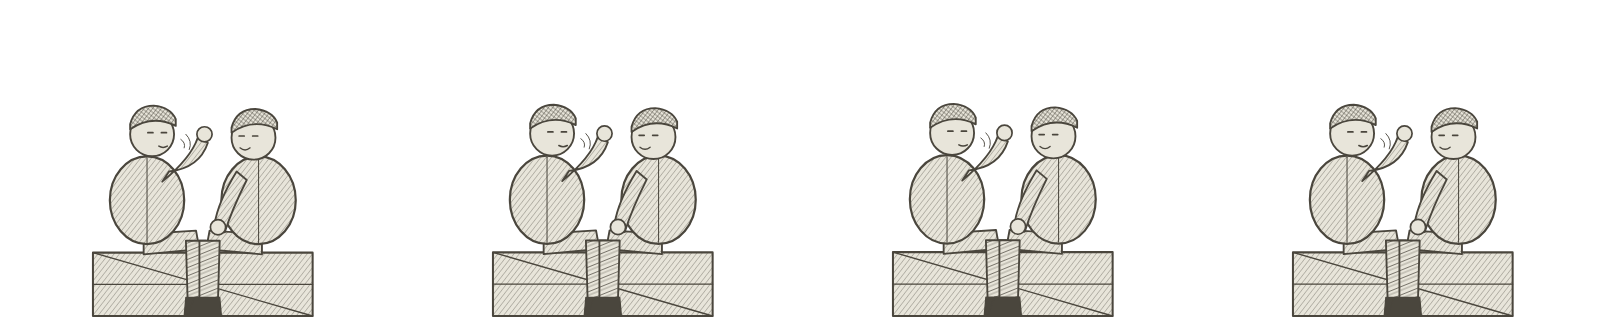
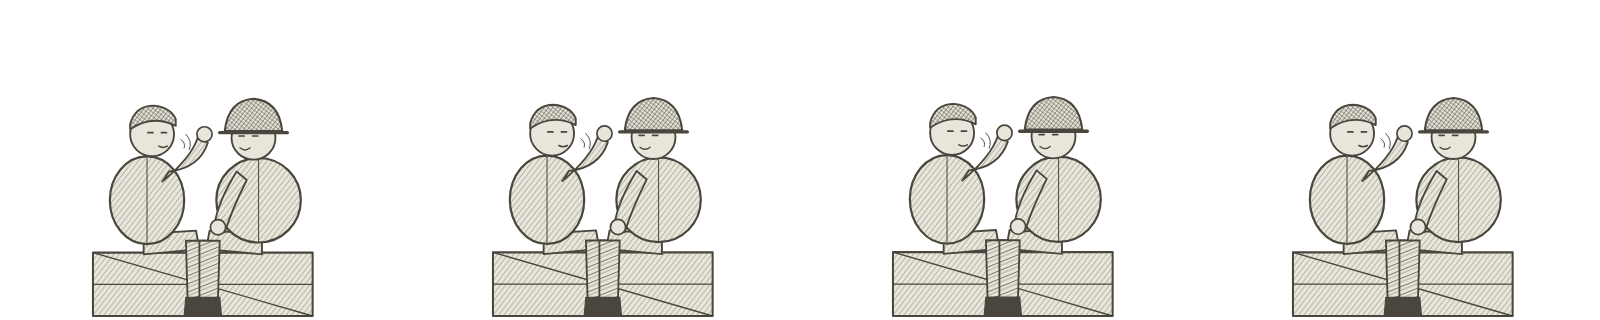
Figurants : carrures et couvre-chefs variés (casque, bandeau), plus de clones
Retour GD sur #132.

Claude-Session: https://claude.ai/code/session_011WbKxBfoJbcyebqrVqkEA5

diff --git a/tools/gen_fx_soldats_e1.py b/tools/gen_fx_soldats_e1.py
@@ -34,7 +34,7 @@ def defs() -> str:
     return "<defs>" + "".join(pats) + "</defs>"
 
 
-def tete(x: float, y: float, f: int, yeux: str = "ouverts", calot: bool = True) -> str:
+def tete(x: float, y: float, f: int, yeux: str = "ouverts", calot: bool = True, couvre: str = "calot") -> str:
     """Tête ronde (r 26) tournée vers f (+1 droite, -1 gauche) ; yeux ouverts, clos ou baissés."""
     out = [f'<circle cx="{x}" cy="{y}" r="26" fill="{PAPIER}" {ST} stroke-width="2.2"/>']
     ex = x + 6 * f
@@ -45,14 +45,20 @@ def tete(x: float, y: float, f: int, yeux: str = "ouverts", calot: bool = True) 
     else:  # baissés, vers les mains
         out.append(f'<path d="M{ex - 10} {y + 2} h5 M{ex + 5} {y + 2} h5" fill="none" {ST} stroke-width="2"/>'
                    f'<path d="M{ex - 11} {y - 4} l6 1 M{ex + 5} {y - 3} l6 -1" fill="none" {ST} stroke-width="1.2"/>')
-    if calot:
+    if calot and couvre == "casque":   # casque rond à bord, un peu de travers
+        out.append(f'<path d="M{x - 34} {y - 8} Q{x - 30} {y - 44} {x} {y - 46} Q{x + 30} {y - 44} {x + 34} {y - 8} Z" fill="url(#hach-2)" {ST} stroke-width="2.4"/>'
+                   f'<path d="M{x - 40} {y - 6} H{x + 40}" {ST} stroke-width="4"/>')
+    elif calot and couvre == "bandeau":   # tête nue, cheveux ras, un pansement autour du front
+        out.append(f'<path d="M{x - 24} {y - 10} Q{x} {y - 40} {x + 24} {y - 10}" fill="url(#hach-1)" {ST} stroke-width="1.6"/>'
+                   f'<path d="M{x - 26} {y - 10} Q{x} {y - 20} {x + 26} {y - 10} L{x + 26} {y - 2} Q{x} {y - 12} {x - 26} {y - 2} Z" fill="{PAPIER}" {ST} stroke-width="2"/>')
+    elif calot:
         out.append(f'<path d="M{x - 26} {y - 12} Q{x - 20} {y - 34} {x + 2} {y - 34} Q{x + 22} {y - 32} {x + 28} {y - 18} '
                    f'L{x + 28} {y - 10} Q{x} {y - 24} {x - 26} {y - 6} Z" fill="url(#hach-2)" {ST} stroke-width="2.2"/>')
     return "".join(out)
 
 
 def assis(x: float, siege: float, f: int, bras: str, tete_y: float = 0, yeux: str = "ouverts",
-          bouche: str = "") -> str:
+          bouche: str = "", carrure: float = 44, couvre: str = "calot") -> str:
     """Soldat assis sur un siège à la hauteur siege (y du dessus), hanche en x, tourné vers f."""
     ty = siege - 140 + tete_y
     genou = x + 62 * f
@@ -62,10 +68,10 @@ def assis(x: float, siege: float, f: int, bras: str, tete_y: float = 0, yeux: st
         f'<path d="M{genou - 12 * f} {siege - 14} L{genou - 10 * f} {SOL - 20} L{genou + 12 * f} {SOL - 20} L{genou + 12 * f} {siege - 14} Z" fill="url(#molletiere)" {ST} stroke-width="2.2"/>',
         f'<path d="M{genou - 12 * f} {SOL - 22} L{genou - 14 * f} {SOL} L{genou + 26 * f} {SOL} L{genou + 18 * f} {SOL - 22} Z" fill="{ENCRE}" {ST} stroke-width="1.6"/>',
         # corps rond, un peu voûté
-        f'<ellipse cx="{x + 4 * f}" cy="{siege - 62}" rx="44" ry="52" fill="url(#hach-1)" {ST} stroke-width="2.6"/>',
+        f'<ellipse cx="{x + 4 * f}" cy="{siege - 62}" rx="{carrure}" ry="{52 + (carrure - 44) * -.3:.0f}" fill="url(#hach-1)" {ST} stroke-width="2.6"/>',
         f'<path d="M{x + 4 * f} {siege - 112} L{x + 4 * f} {siege - 12}" {ST} stroke-width="1.2"/>',
     ]
-    out.append(tete(x + 10 * f, ty, f, yeux))
+    out.append(tete(x + 10 * f, ty, f, yeux, couvre=couvre))
     if bouche == "parle":
         out.append(f'<path d="M{x + 18 * f} {ty + 14} q{5 * f} 3 {10 * f} 0" fill="none" {ST} stroke-width="1.8"/>'
                    f'<path d="M{x + 44 * f} {ty + 6} q{6 * f} 4 {4 * f} 10 M{x + 50 * f} {ty} q{8 * f} 8 {4 * f} 18" fill="none" {ST} stroke-width="1.1"/>')
@@ -134,17 +140,17 @@ def main() -> None:
     # Pons (raconte, la main levée) et Billard (écoute, sourit), face à face sur une caisse
     calque("fx_soldats-pons-billard", 400,
            caisse(110, 370, 330) + assis(170, 330, 1, "geste", bouche="parle")
-           + assis(310, 330, -1, "genoux", tete_y=4, bouche="sourit"))
+           + assis(310, 330, -1, "genoux", tete_y=4, bouche="sourit", carrure=50, couvre="casque"))
     # au boyau : un dormeur contre le parados, un homme qui graisse son fusil sur une caisse
     calque("fx_soldats-boyau", 440,
-           dormeur(110, 1) + caisse(290, 420, 336) + assis(360, 336, -1, "fusil", tete_y=6, yeux="baisses"))
+           dormeur(110, 1) + caisse(290, 420, 336) + assis(360, 336, -1, "fusil", tete_y=6, yeux="baisses", couvre="bandeau"))
     # au carrefour : trois hommes autour d'une gamelle posée sur une caisse
     calque("fx_soldats-carrefour", 520,
-           caisse(60, 200, 336) + assis(130, 336, 1, "gamelle", yeux="baisses")
+           caisse(60, 200, 336) + assis(130, 336, 1, "gamelle", yeux="baisses", carrure=36, couvre="casque")
            + caisse(250, 330, 360) + f'<path d="M262 360 Q290 340 318 360 Z" fill="{PAPIER}" {ST} stroke-width="2.2"/>'
            + f'<path d="M290 346 q-6 -14 0 -26 M300 344 q6 -12 0 -22" fill="none" stroke="{LAVIS}" stroke-width="1.6" stroke-dasharray="3 4"/>'
            + caisse(380, 560, 336) + assis(420, 336, -1, "geste", bouche="parle")
-           + assis(520, 336, -1, "genoux", tete_y=2))
+           + assis(520, 336, -1, "genoux", tete_y=2, carrure=52, couvre="bandeau"))
     print("3 calques fx_soldats-* dans art/src/fx/")
 
 
